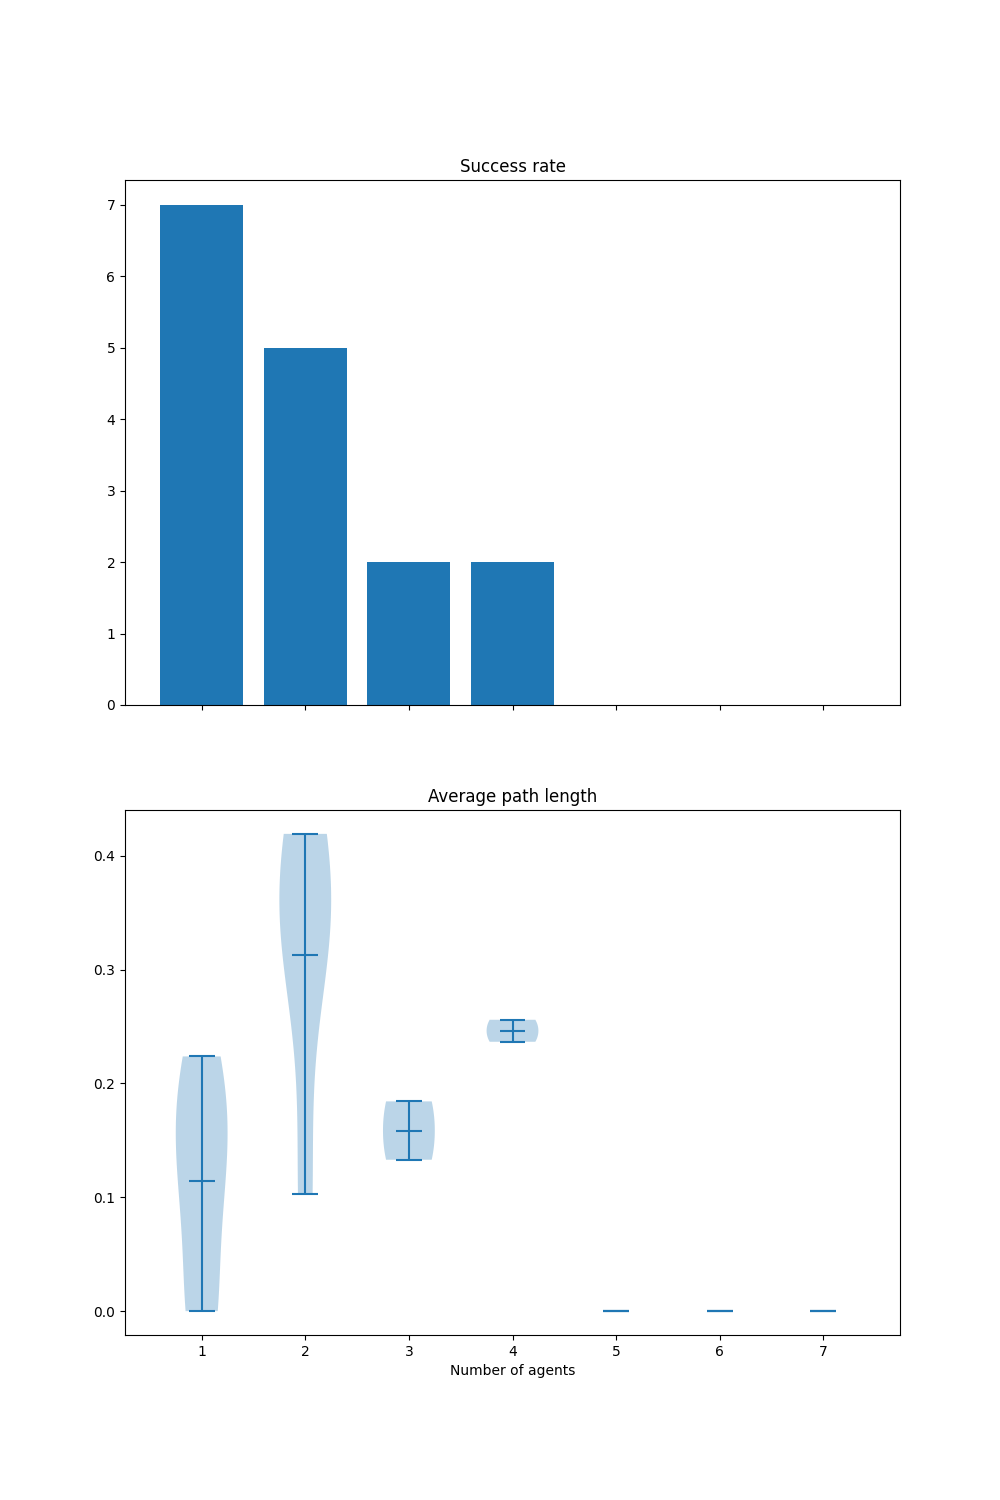
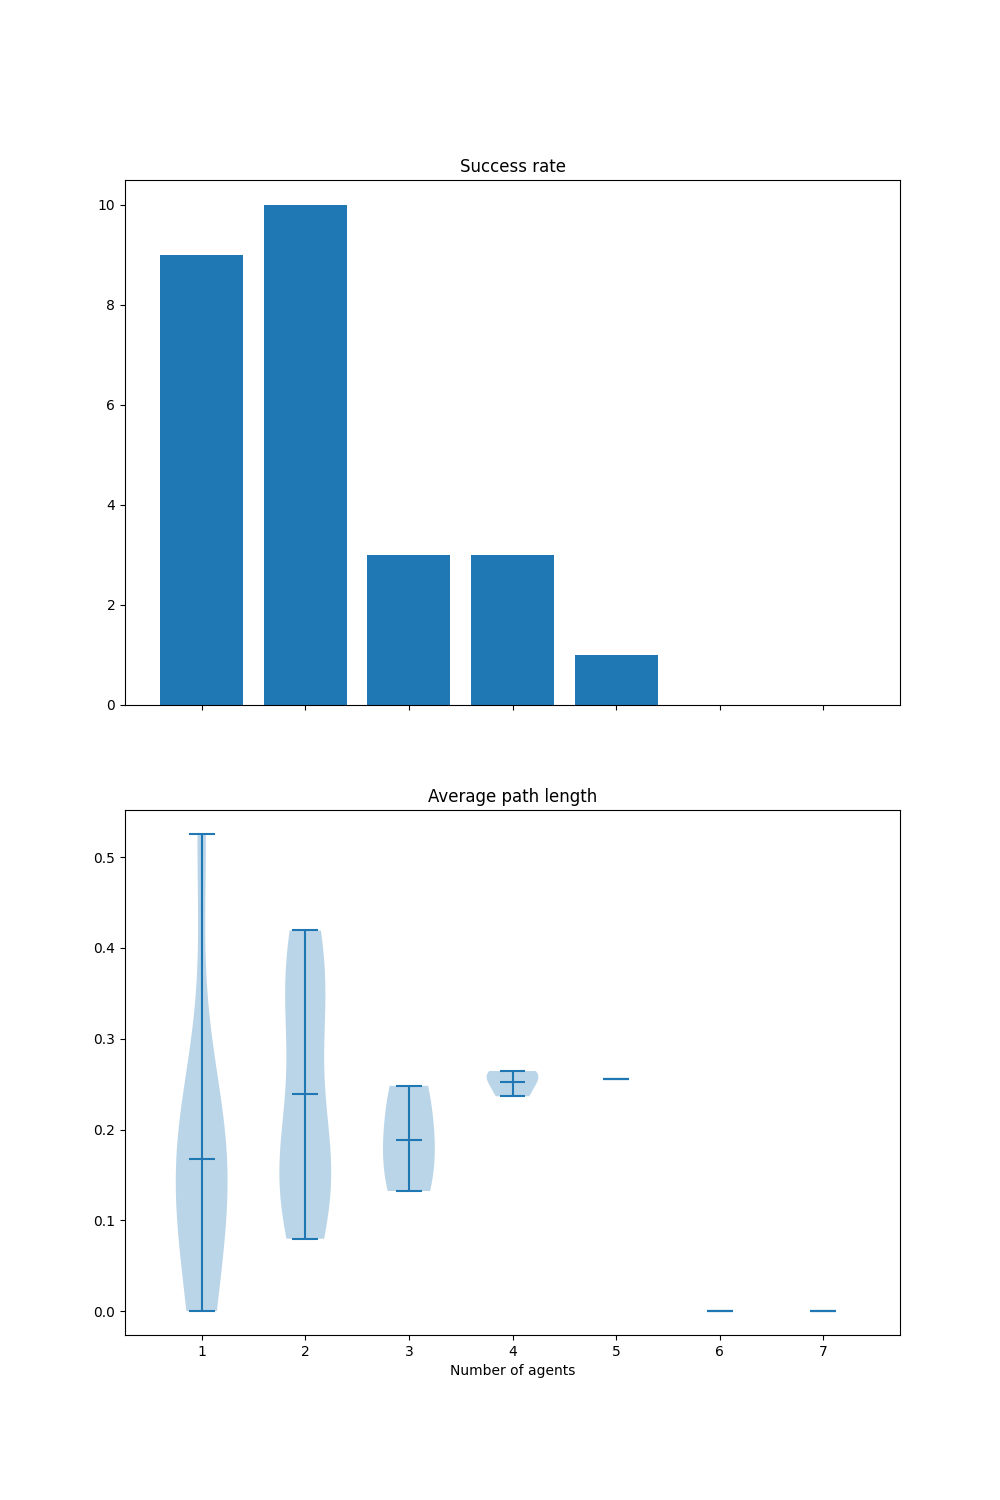
checking all pathsets from all viz files for sucess

diff --git a/planner/bvc/plan_bvc.py b/planner/bvc/plan_bvc.py
@@ -2,7 +2,7 @@ import json
 import os
 import subprocess
 from functools import reduce
-from typing import List, Optional, Tuple
+from typing import List, Literal, Optional, Tuple, Union
 
 import numpy as np
 import numpy.typing as npt
@@ -36,12 +36,27 @@ def get_scenario_folder(hash: str = ""):
     return os.path.join(os.path.dirname(__file__), SCENARIOS_FOLDER, hash)
 
 
-def return_longest_path(paths_s_in: List[np.ndarray]) -> np.ndarray:
+def return_succesful_path(paths_s: List[npt.NDArray[np.float64]],
+                          goals,
+                          goal_reach_distance
+                          ) -> Union[np.ndarray, Literal[-1]]:
     """
-    Return the path set from paths_s that is the longest.
+    Return the first set of paths that actually reaches the goals and INVALID 
+    if none of them do.
     """
-    lengths = [len(p) for p in paths_s_in]
-    return paths_s_in[np.argmax(lengths)]
+    n_agents = len(goals)
+    for paths in paths_s:
+        assert len(paths.shape) == 3, "Paths must be 3D."
+
+        # Check if successful.
+        dists_from_goals: List[float] = list(map(
+            lambda i_a: float(np.linalg.norm(
+                paths[i_a, -1, :] - goals[i_a])),
+            range(n_agents)
+        ))
+        if max(dists_from_goals) <= goal_reach_distance * 2:
+            return paths
+    return INVALID  # type: ignore # (because is -1)
 
 
 def get_average_path_length(paths: npt.NDArray[np.float64]) -> float:
@@ -158,17 +173,7 @@ def plan(map_img: MAP_IMG, starts, goals, radius: float):
     if len(paths_s) == 0:
         cleanup(scenario_folder)
         return INVALID
-    final_paths = return_longest_path(paths_s)
-
-    # Check if successful.
-    dists_from_goals: List[float] = list(map(
-        lambda i_a: float(np.linalg.norm(
-            final_paths[i_a, -1, :] - goals[i_a])),
-        range(n_agents)
-    ))
-    if max(dists_from_goals) > goal_reach_distance * 2:
-        cleanup(scenario_folder)
-        return INVALID
+    final_paths = return_succesful_path(paths_s, goals, goal_reach_distance)
 
     cleanup(scenario_folder)
     return final_paths
